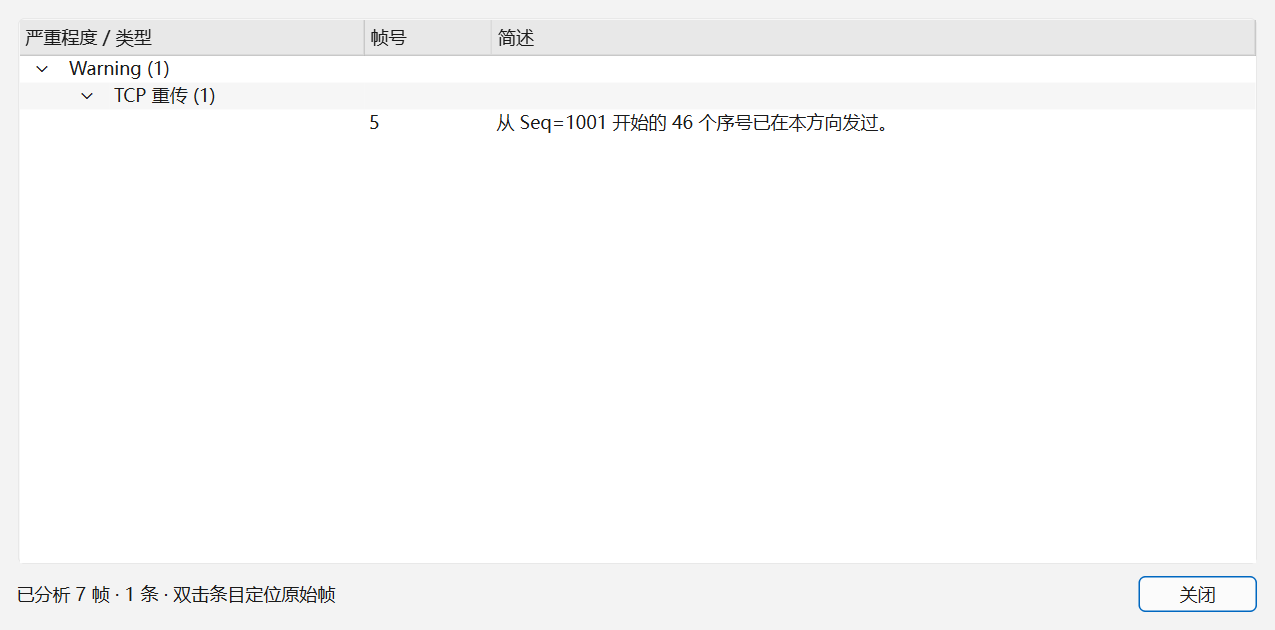
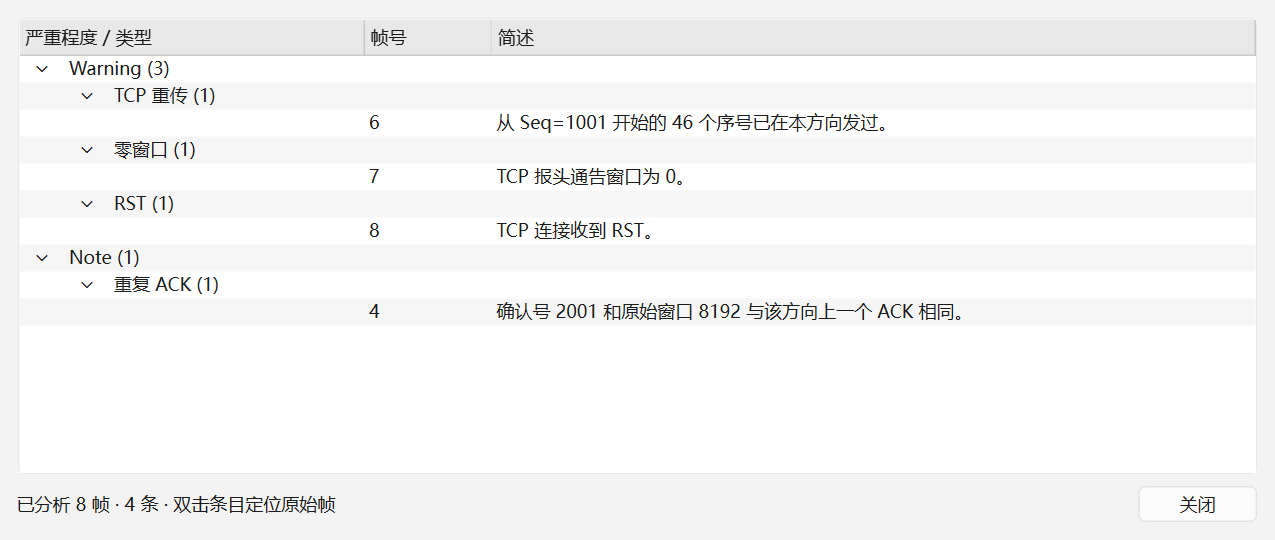
docs: 归档 TCP 保活与 Lua 对照和安装说明

diff --git a/docs/decisions.md b/docs/decisions.md
@@ -196,3 +196,32 @@ Windows 下导入后分别分析三次，表中为纯分析耗时中位数，文
 | 合成 `phase6-benchmark-100k.pcap` | 100,000 | 324.0 ms | 148.0 ms |
 
 WLAN 离线复查中，ARP、SYN 扫描、明文凭据告警各 0 条，扫描规则在该样本无误报。这份抓包使用 `tcp` 抓包过滤，含 0 个 ARP 帧，无法验证真实 ARP 误报率。代理状态以当时的捕获环境为准，无法从离线文件独立核对。专家信息为重传 473 条、重复 ACK 113 条、零窗口 0 条、RST 54 条。
+
+### TCP 保活对照
+
+负载为 0 或 1 字节、序号等于本方向已见下一序号减 1 且没有 SYN、FIN 或 RST 的段标记为「TCP 保活」（Note）。它不推进已发送区间。对端刚发过保活时，序号仍在本方向下一序号、确认号及非零窗口与本方向上一个 ACK 一致的纯 ACK 视为保活回应，从重复 ACK 排除。保活回应不单独出现在专家信息面板。11 帧合成复现中，两边均检出 3 个保活，重传和重复 ACK 均为 0。TShark 另外报告 3 个保活 ACK。 [Wireshark TCP 分析规则](https://www.wireshark.org/docs/wsug_html_chunked/ChAdvTCPAnalysis.html)
+
+`phase4-wlan-proc-sni.pcap` 共 9,122 帧。以下 TShark 数字使用本机 4.4.5 和表内显示过滤式对每个类别单独计数。
+
+| 类别 | NetSniffer | TShark 4.4.5 | TShark 过滤式 |
+|---|---:|---:|---|
+| 重传（含快速重传） | 454 | 459 | `tcp.analysis.retransmission \|\| tcp.analysis.fast_retransmission` |
+| 重复 ACK | 92 | 87 | `tcp.analysis.duplicate_ack` |
+| 零窗口 | 0 | 0 | `tcp.analysis.zero_window` |
+| RST | 54 | 54 | `tcp.flags.reset==1` |
+| 保活 | 24 | 24 | `tcp.analysis.keep_alive` |
+
+NetSniffer 重传要求整段序号已被捕获，Wireshark 依据预期序号及快速重传时序等规则分流，并将伪重传放入另一字段。NetSniffer 的重复 ACK 比较确认号和原始窗口，Wireshark 还检查已建立的序号状态，并考虑 SACK 和零窗口。以上是两套规则的口径差异，未对差异帧逐条调整。 [新版专家信息截图](images/phase6-expert.png)
+
+### Wireshark Lua 应用识别
+
+`wireshark_plugin/netsniffer_appid.lua` 在 Wireshark 4.4.5 以 postdissector 读取本帧 TCP/UDP 负载，按强内容特征、经内容校验的端口候选、弱 QUIC 长头特征依次判定。`netsniffer.app` 与 `netsniffer.basis` 给出应用和依据。`netsniffer.port_guess` 单独记录端口猜测。有负载且存在端口候选时，内容支持另一协议或无法确认候选，均会标记 `netsniffer.mismatch=True`。空负载只保留端口猜测。8080 在两边的端口表内都映射为 HTTP，确认 HTTP 时不算不符。合成演示包第 1 帧把 HTTP 发往 TCP 443，内容判定 HTTP、端口猜测 TLS，因而不符。
+
+执行 `python -m tools.compare_lua_appid`，用 TShark 4.4.5 对 `samples/` 全部 **17 个 pcap、214 帧**比较 `app` 和 `basis`，一致率为 **100%**，单帧口径无不一致帧。脚本另列 Python 流级结果。`tcp_reassembly.pcap` 的帧 5、10、15 分别补齐 TLS、HTTP 和 DNS，`plaintext_credentials.pcap` 的帧 5、10 及 `security_demo.pcap` 的帧 50、55 也涉及重组或沿用流级识别。这些是单帧插件与完整 NetSniffer 的范围差异。TLS 记录头可先识别应用，跨段 SNI、重组 HTTP 头部及 DNS 消息由 Python 重组路径提供。
+
+#### 安装与演示
+
+1. 在 Wireshark 4.4.5 打开「帮助 → 关于 Wireshark → 文件夹」，确认 `Personal Lua Plugins`。Windows 本机的个人目录是 `%APPDATA%\Wireshark\plugins`，与 `tshark -G folders` 输出一致。
+2. 把 `netsniffer_appid.lua` 放入该目录，重启 Wireshark，打开合成样例。也可直接用 `tshark -X lua_script:wireshark_plugin/netsniffer_appid.lua` 做离线对照。
+3. 选中有识别结果的帧，展开「NetSniffer 应用识别」，右键应用识别字段并选「应用为列」。可用 `netsniffer.mismatch == 1` 找到内容与端口不符的帧。`tcp_reassembly.pcap` 中的续段也可展示端口候选未确认的情况。
+4. 打开「工具 → NetSniffer 应用识别统计」。Listener 对整份抓包统计各应用帧数及端口不符数。「Unconfirmed」汇总有负载、端口不符且未确认应用的帧。 [Wireshark Lua 菜单与窗口 API](https://www.wireshark.org/docs/wsdg_html_chunked/lua_module_Gui.html) · [Listener API](https://www.wireshark.org/docs/wsdg_html_chunked/lua_module_Listener.html)
